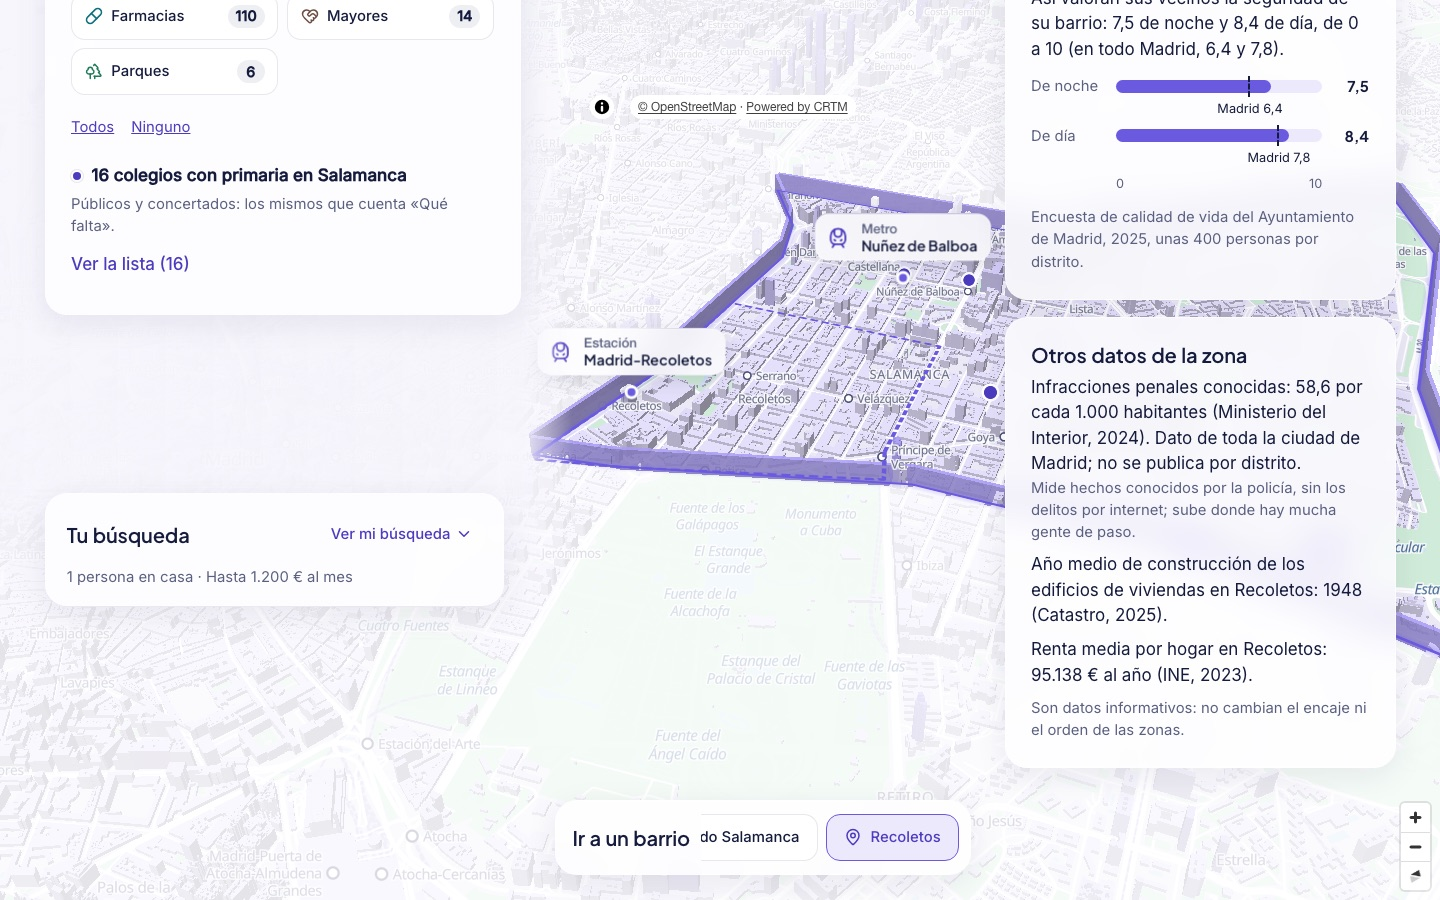
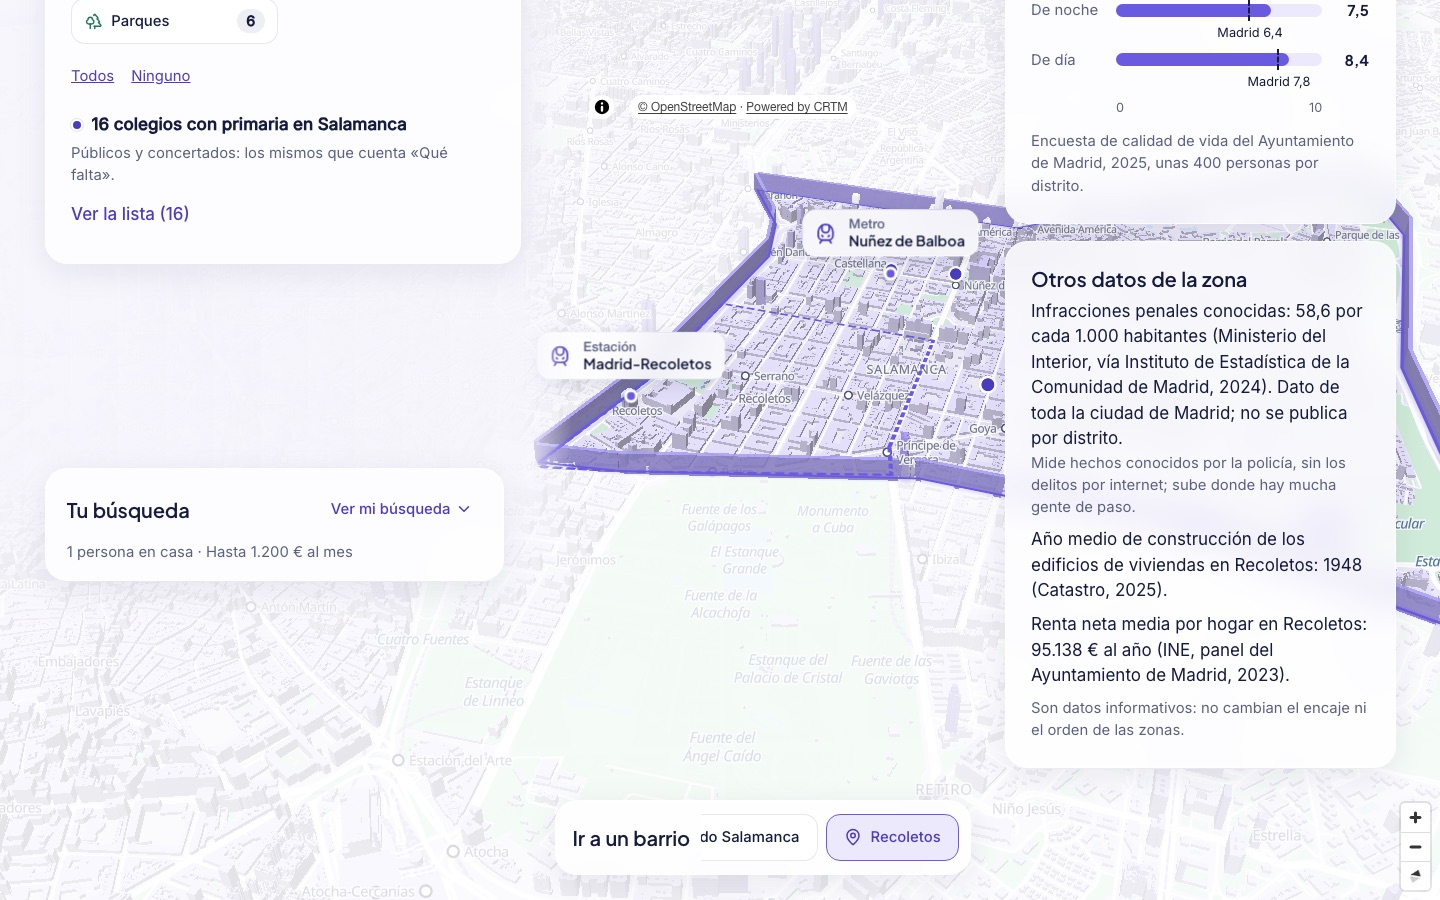
PR #61 review: screenshots and Gate 6 notes with the new sources, checks and test counts (D-235)
The pitch search is unchanged (27 zones, Latina 98, the same near misses).

diff --git a/evidence/gate-06/2026-11-14-context/README.md b/evidence/gate-06/2026-11-14-context/README.md
@@ -1,6 +1,6 @@
 # D-235 · Otros datos de la zona (14 nov)
 
-Base local `housing_contexto` (copia de `housing` con los datos de D-235), API local y web de producción (`next build` + `next start`) contra ella. Capturas con Chromium (Playwright) a 1440×900 y 390×844; en móvil, con la hoja abierta.
+Base local `housing_contexto` (copia de `housing` con los datos de D-235), API local y web de producción (`next build` + `next start`) contra ella. Capturas con Chromium (Playwright) a 1440×900 y 390×844; en móvil, con la hoja abierta. Rehechas tras la revisión de la PR #61 (fuentes «vía …» y «Renta neta media por hogar», R-04).
 
 ## Capturas
 
@@ -13,10 +13,10 @@ Base local `housing_contexto` (copia de `housing` con los datos de D-235), API l
 
 Texto de la tarjeta, leído de la página:
 
-- **Pozuelo de Alarcón:** Infracciones penales conocidas: 21,6 por cada 1.000 habitantes (Ministerio del Interior, 2024). · Mide hechos conocidos por la policía, sin los delitos por internet; sube donde hay mucha gente de paso. · Viviendas construidas desde 2001: 32,7 % (censo anual de la Comunidad de Madrid, 2023). · Renta disponible bruta por persona: 47.217 € al año (Instituto de Estadística de la Comunidad de Madrid, 2024).
+- **Pozuelo de Alarcón:** Infracciones penales conocidas: 21,6 por cada 1.000 habitantes (Ministerio del Interior, vía Instituto de Estadística de la Comunidad de Madrid, 2024). · Mide hechos conocidos por la policía, sin los delitos por internet; sube donde hay mucha gente de paso. · Viviendas construidas desde 2001: 32,7 % (censo anual de la Comunidad de Madrid, 2023). · Renta disponible bruta por persona: 47.217 € al año (Instituto de Estadística de la Comunidad de Madrid, 2024).
 - **Rascafría:** Infracciones penales conocidas: sin dato. El Ministerio solo lo publica para municipios de más de 20.000 habitantes. · Viviendas construidas desde 2001: 21,6 % (…, 2023). · Renta disponible bruta por persona: 20.532 € al año (…, 2024).
-- **Usera:** Infracciones penales conocidas: 58,6 por cada 1.000 habitantes (Ministerio del Interior, 2024). Dato de toda la ciudad de Madrid; no se publica por distrito. · (aviso) · Año medio de construcción de los edificios de viviendas: 1978 (Catastro, 2025). · Renta media por hogar: 34.651 € al año (INE, 2023).
-- **Recoletos (barrio de Salamanca):** la cifra de la ciudad, con la misma etiqueta · Año medio de construcción de los edificios de viviendas en Recoletos: 1948 (Catastro, 2025). · Renta media por hogar en Recoletos: 95.138 € al año (INE, 2023).
+- **Usera:** Infracciones penales conocidas: 58,6 por cada 1.000 habitantes (Ministerio del Interior, vía Instituto de Estadística de la Comunidad de Madrid, 2024). Dato de toda la ciudad de Madrid; no se publica por distrito. · (aviso) · Año medio de construcción de los edificios de viviendas: 1978 (Catastro, 2025). · Renta neta media por hogar: 34.651 € al año (INE, panel del Ayuntamiento de Madrid, 2023).
+- **Recoletos (barrio de Salamanca):** la cifra de la ciudad, con la misma etiqueta · Año medio de construcción de los edificios de viviendas en Recoletos: 1948 (Catastro, 2025). · Renta neta media por hogar en Recoletos: 95.138 € al año (INE, panel del Ayuntamiento de Madrid, 2023).
 
 Todas terminan con «Son datos informativos: no cambian el encaje ni el orden de las zonas».
 
@@ -61,7 +61,7 @@ La respuesta completa (`results`, `near_misses`, `all_zones`, `reality_check`, `
 
 ## Gates
 
-- Sobre `origin/claude/sprint-1-public` en `15393cb` (con #56, D-239): `make lint typecheck test-unit` verde (pytest 749, vitest 402).
+- Sobre `origin/claude/sprint-1-public` en `15393cb` (con #56, D-239) y con la revisión de la PR #61: `make lint typecheck test-unit` verde (pytest 753, vitest 405).
 - `make test-db` contra una base de tests vacía (`housing_contexto_test`, migrada a `0007`): 134 passed.
 - `npm run build` (apps/web): verde.
-- Gate 1 de los tres datasets: `evidence/gate-01/2026-11-14/` (PASS; los avisos no críticos son la cobertura de 37 municipios y `totals_are_additive`, porque la cibercriminalidad es una parte del total, no un reparto).
+- Gate 1 de los tres datasets: `evidence/gate-01/2026-11-14/` (PASS con `stat_tables-1.1.0`; las infracciones pasan los checks críticos `quarantine_empty` y `latest_year_complete`, con `excluded_status: 74`; los avisos no críticos son la cobertura de 37 municipios y `totals_are_additive`, porque la cibercriminalidad es una parte del total, no un reparto).
